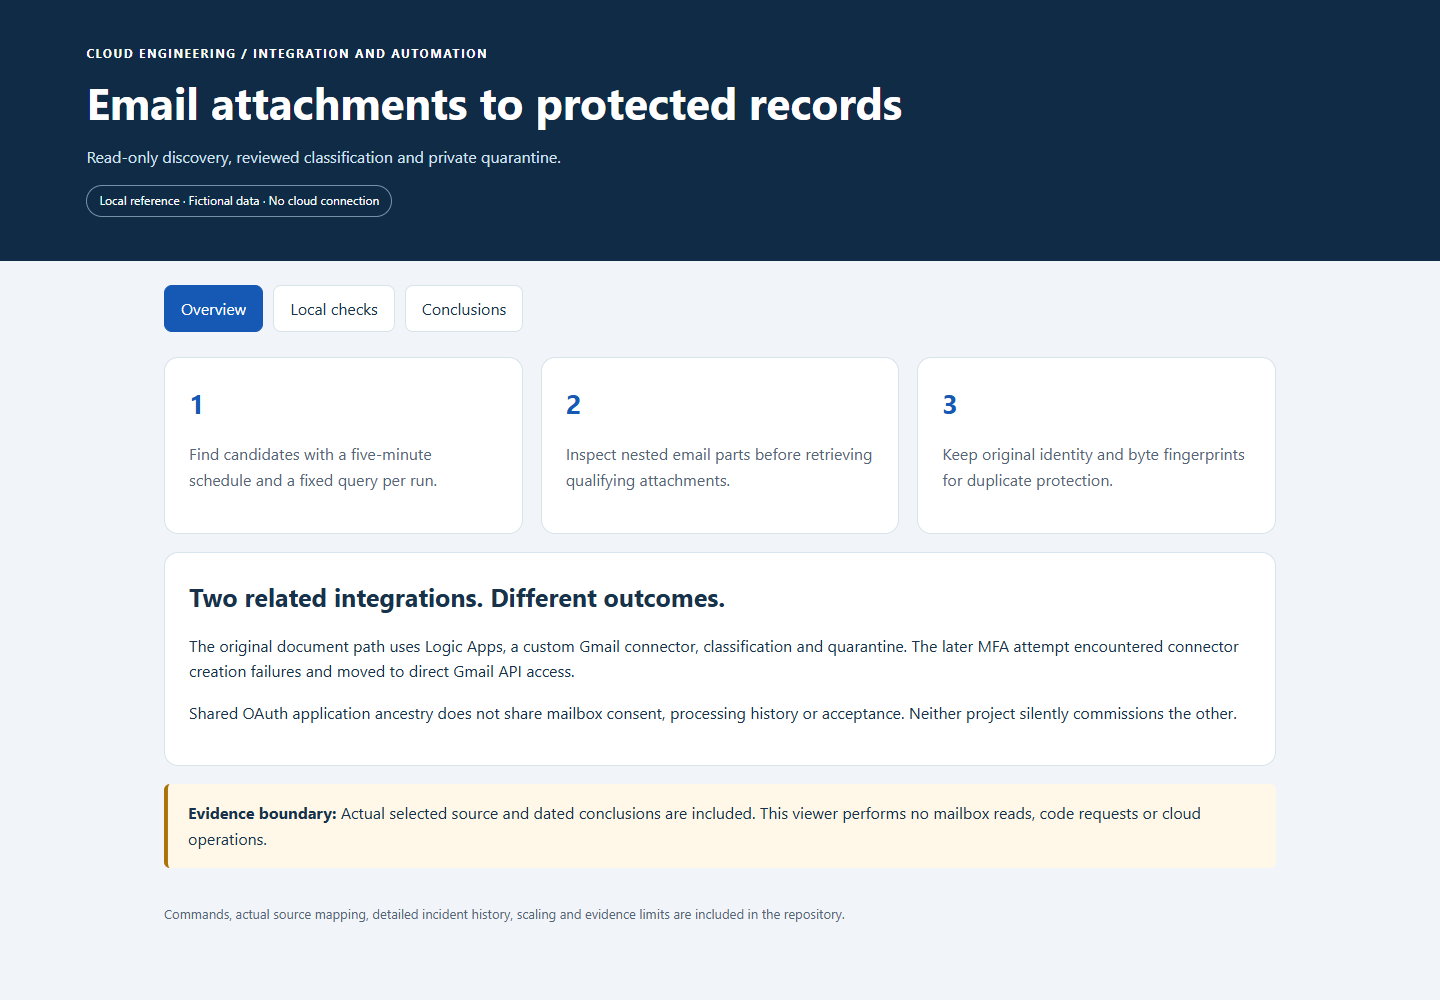
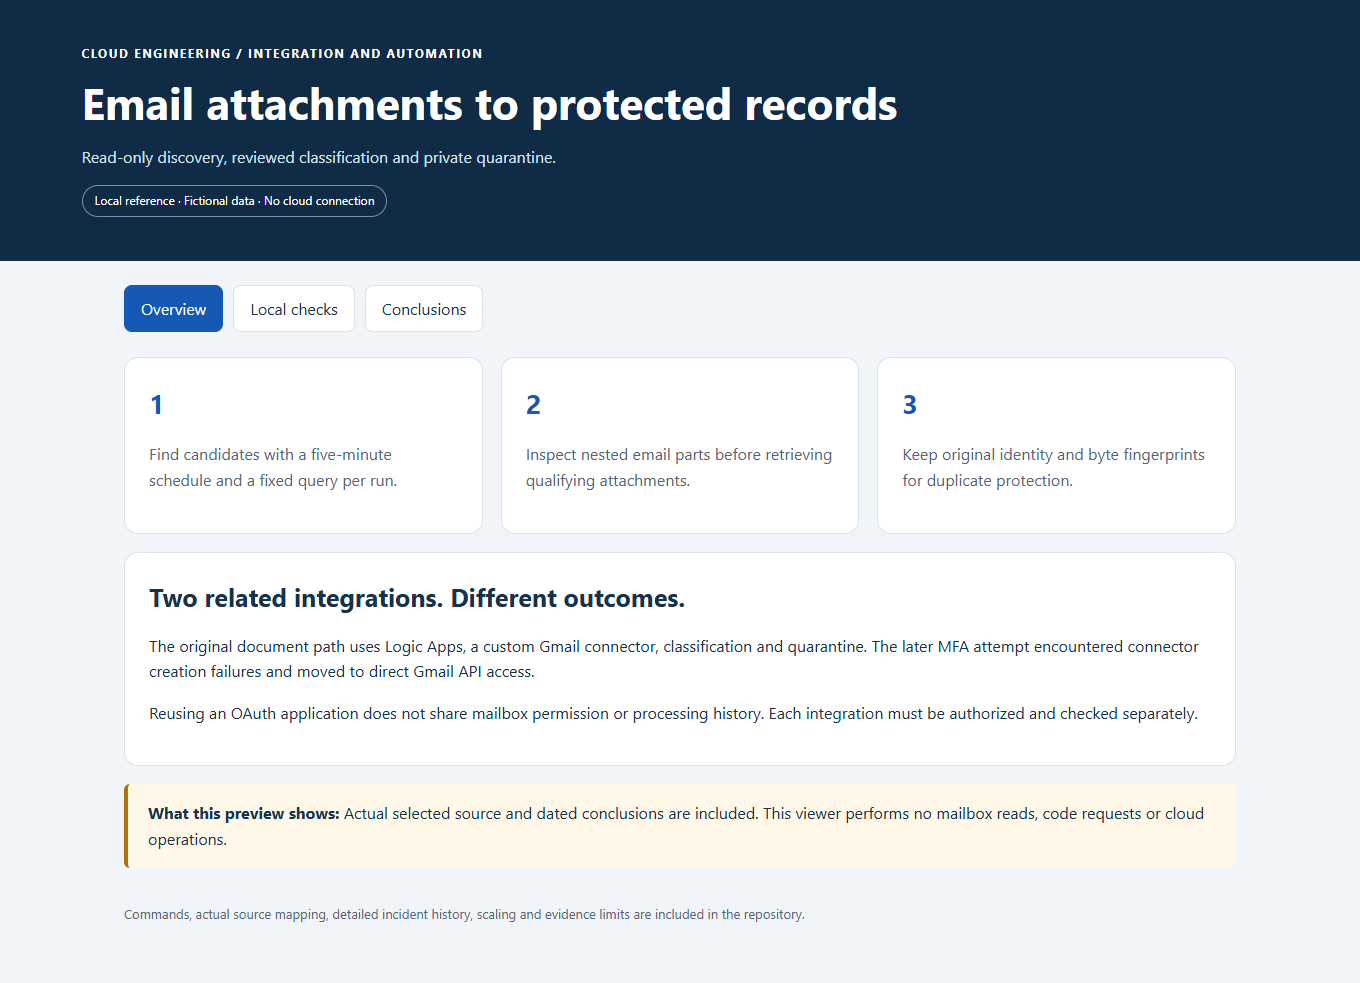
Simplify supporting guides and align preview text and screenshots

diff --git a/preview/index.html b/preview/index.html
@@ -3,8 +3,8 @@
 </style></head><body>
     <header><div class="eyebrow">Cloud engineering / Integration and automation</div><h1>Email attachments to protected records</h1><p>Read-only discovery, reviewed classification and private quarantine.</p><span class="pill">Local reference · Fictional data · No cloud connection</span></header><main>
     <nav role="tablist" aria-label="Project sections"><button id="tab-overview" role="tab" aria-controls="overview" aria-selected="true">Overview</button><button id="tab-checks" role="tab" aria-controls="checks" aria-selected="false">Local checks</button><button id="tab-conclusions" role="tab" aria-controls="conclusions" aria-selected="false">Conclusions</button></nav>
-    <section id="overview" role="tabpanel" aria-labelledby="tab-overview"><div class="grid"><article class="card"><div class="big">1</div><p>Find candidates with a five-minute schedule and a fixed query per run.</p></article><article class="card"><div class="big">2</div><p>Inspect nested email parts before retrieving qualifying attachments.</p></article><article class="card"><div class="big">3</div><p>Keep original identity and byte fingerprints for duplicate protection.</p></article></div><article class="box"><h2>Two related integrations. Different outcomes.</h2><p>The original document path uses Logic Apps, a custom Gmail connector, classification and quarantine. The later MFA attempt encountered connector creation failures and moved to direct Gmail API access.</p><p>Shared OAuth application ancestry does not share mailbox consent, processing history or acceptance. Neither project silently commissions the other.</p></article><div class="note"><strong>Evidence boundary:</strong> Actual selected source and dated conclusions are included. This viewer performs no mailbox reads, code requests or cloud operations.</div></section>
+    <section id="overview" role="tabpanel" aria-labelledby="tab-overview"><div class="grid"><article class="card"><div class="big">1</div><p>Find candidates with a five-minute schedule and a fixed query per run.</p></article><article class="card"><div class="big">2</div><p>Inspect nested email parts before retrieving qualifying attachments.</p></article><article class="card"><div class="big">3</div><p>Keep original identity and byte fingerprints for duplicate protection.</p></article></div><article class="box"><h2>Two related integrations. Different outcomes.</h2><p>The original document path uses Logic Apps, a custom Gmail connector, classification and quarantine. The later MFA attempt encountered connector creation failures and moved to direct Gmail API access.</p><p>Reusing an OAuth application does not share mailbox permission or processing history. Each integration must be authorized and checked separately.</p></article><div class="note"><strong>What this preview shows:</strong> Actual selected source and dated conclusions are included. This viewer performs no mailbox reads, code requests or cloud operations.</div></section>
     <section id="checks" role="tabpanel" aria-labelledby="tab-checks" hidden><div class="box"><h2>Actual rules. Fictional inputs.</h2><p id="scope"></p><div class="table-wrap"><table><thead><tr><th>Scenario</th><th>Decision</th><th>Observed rule output</th></tr></thead><tbody id="results"></tbody></table></div></div><div class="note">A passing local rule does not prove a live OAuth grant, database claim, malware result or completed provider sign-in.</div></section>
-    <section id="conclusions" role="tabpanel" aria-labelledby="tab-conclusions" hidden><div class="box"><h2>What failed, what changed and what remains separate</h2><div class="step"><div class="number">1</div><div><h3>Attachment identity</h3><p>Keep the raw Gmail ID intact; use a separate fixed-size hash for storage.</p></div></div><div class="step"><div class="number">2</div><div><h3>Connector failure</h3><p>A valid public contract did not explain or repair Azure creation HTTP 500.</p></div></div><div class="step"><div class="number">3</div><div><h3>MFA conclusion</h3><p>Direct Gmail retrieval removed the MFA connector dependency, while document handover stayed separate.</p></div></div><div class="step"><div class="number">4</div><div><h3>Time and competing sign-ins</h3><p>Correct timestamp precision; reject ambiguous messages rather than guessing.</p></div></div></div><div class="note"><strong>Unresolved connector cause:</strong> Azure creation failed before consent. Direct Gmail was a different path for MFA, not proof of a connector repair.</div></section>
+    <section id="conclusions" role="tabpanel" aria-labelledby="tab-conclusions" hidden><div class="box"><h2>What failed, what changed and what remains separate</h2><div class="step"><div class="number">1</div><div><h3>Attachment identity</h3><p>Keep the raw Gmail ID intact; use a separate fixed-size hash for storage.</p></div></div><div class="step"><div class="number">2</div><div><h3>Connector failure</h3><p>A valid connector definition did not resolve the HTTP 500 error during Azure resource creation.</p></div></div><div class="step"><div class="number">3</div><div><h3>MFA conclusion</h3><p>Direct Gmail retrieval removed the MFA connector dependency, while document handover stayed separate.</p></div></div><div class="step"><div class="number">4</div><div><h3>Time and competing sign-ins</h3><p>Correct timestamp precision; reject ambiguous messages rather than guessing.</p></div></div></div><div class="note"><strong>Unresolved connector cause:</strong> Azure creation failed before consent. Direct Gmail was a different path for MFA, not proof of a connector repair.</div></section>
     <footer>Commands, actual source mapping, detailed incident history, scaling and evidence limits are included in the repository.</footer></main>
     <script>const tabs=[...document.querySelectorAll('[role=tab]')];function select(tab){for(const t of tabs){t.setAttribute('aria-selected',String(t===tab));document.getElementById(t.getAttribute('aria-controls')).hidden=t!==tab}}for(const tab of tabs){tab.addEventListener('click',()=>select(tab));tab.addEventListener('keydown',e=>{if(['ArrowLeft','ArrowRight'].includes(e.key)){e.preventDefault();const next=tabs[(tabs.indexOf(tab)+(e.key==='ArrowRight'?1:-1)+tabs.length)%tabs.length];select(next);next.focus()}})}fetch('/data.json').then(r=>{if(!r.ok)throw Error('Reference data could not be loaded');return r.json()}).then(data=>{document.getElementById('scope').textContent=data.scope;for(const values of data.results){const tr=document.createElement('tr');for(const value of values){const td=document.createElement('td');td.textContent=value;tr.append(td)}document.getElementById('results').append(tr)}}).catch(e=>{const p=document.createElement('p');p.setAttribute('role','alert');p.textContent=e.message;document.querySelector('main').prepend(p)});</script></body></html>

diff --git a/docs/ISSUES-AND-CONCLUSIONS.md b/docs/ISSUES-AND-CONCLUSIONS.md
@@ -5,11 +5,11 @@ These are recorded implementation lessons, not a fresh production investigation.
 | Stage | Evidence | Conclusion |
 | --- | --- | --- |
 | Original document ingestion | Long Gmail attachment IDs exceeded a legacy 200-character assumption | Preserve the complete opaque ID; use a separate domain-separated persistence hash |
-| Historical run inspection | Some successful Response actions did not expose the expected retained output surface | Use the available system records and a controlled read of the needed source metadata; do not invent a missing output link |
+| Historical run inspection | Some successful Response actions had no retrievable saved output | Use the available system records and a controlled read of the needed source metadata; do not invent a missing output link |
 | Replacement polling review | A rolling `after:` query could move between pages | Capture one query per enumeration; retain full-pagination failure behavior |
-| Replacement document connector | Azure connector creation returned InternalServerError before OAuth | Replacement commissioning remained blocked; no mailbox migration or handover was proved |
+| Replacement document connector | Azure connector creation returned InternalServerError before OAuth | The replacement could not be put into service; mailbox migration and a complete handover were not verified |
 | Later provider MFA connector attempt, October 21 | Public OpenAPI validation passed, but connector creation still returned repeated HTTP 500 and timed out | Validation was necessary but not sufficient; the service's underlying root cause remained unknown |
-| Support attempt | HTTP 202 was followed by Failed / InvalidSupportPlan and no case readback | An accepted asynchronous submission was not an opened support ticket |
+| Support attempt | The submission was initially accepted, then failed with InvalidSupportPlan; no opened case was confirmed | An accepted asynchronous submission was not an opened support ticket |
 | MFA implementation conclusion | Approved direct Gmail API access avoided connector creation; authorization stayed protected in Key Vault | Direct retrieval became the MFA path; it did not fix the document connector |
 | OAuth lifecycle | Testing status and missing branding initially prevented a durable production-mode setup | Complete required branding, select the intended publishing status and renew consent; do not confuse this with the pre-OAuth HTTP 500 |
 | Recovery timing, October 22–23 | A real arrival could be rounded to the same second as millisecond Send time and be rejected as too old | Share one precise freshness comparison before verification and final selection; keep older/ambiguous messages rejected |
@@ -29,4 +29,4 @@ Confirm the exact resource, failure stage, supported contract and actual Azure s
 
 ## Before recovering a processing gap
 
-Establish the last verified complete boundary, stop competing producers and reconcile in-flight work. Plan a bounded fixed-window discovery and preserve the raw provider IDs and destination ledger. Do not restart the shelved historical backfill automatically. Preserving a receipt matters more than replaying an operation to obtain a cleaner test result.
+Find the last time range confirmed fully processed, stop overlapping ingestion jobs and check unfinished work. Plan a recovery scan for a fixed time range, keeping the original provider IDs and destination processing records. Do not restart the shelved historical backfill automatically. Keep the original operation record. Do not repeat a business operation just to obtain a cleaner test result.

diff --git a/docs/IMPLEMENTATION.md b/docs/IMPLEMENTATION.md
@@ -16,18 +16,18 @@ The authorization-document profile is PDF-only. The generic preparation code can
 
 Gmail attachment data uses base64url. The workflow normalizes the URL-safe alphabet and padding before submitting ordinary base64 to the inbound API. The API independently checks canonical encoding, the 20 MiB decoded bound, filename/MIME/signature agreement, sender address and received timestamp. A valid file header is not a malware verdict or a complete PDF/image parse.
 
-## Identity and provenance
+## Access and source tracking
 
 Gmail OAuth is a mailbox authorization. The workflow's managed identity is a different identity used for API calls. The original full route requires an ingestion-writer application role. Creating a workflow identity does not grant that role; the public runnable extraction deliberately omits app registration, role assignment, connector creation, database and scanner provisioning.
 
 Preserve the raw provider attachment ID, up to the contract's 8,192-character bound, for retrieval and duplicate identity. A domain-separated SHA-256 converts it to a fixed-size persistence reference. The content SHA-256 describes the received bytes. These values serve different purposes. Do not derive replay identity from the already-hashed attachment reference.
 
-The full route distinguishes an exact replay from different bytes under an existing identity. SQL and Blob Storage are separate systems: a committed receipt, pending scan and partial upload need reconciliation rather than blind re-submission.
+The full route distinguishes an exact replay from different bytes under an existing identity. SQL and Blob Storage are separate systems: a saved upload record, pending scan or partial upload must be checked before deciding what to retry.
 
 ## Trust and history
 
 New bytes go to private Gmail quarantine. Defender produces the malware result; Event Grid and a queue carry it; the trusted processor checks the expected object/version and state before release. No OCR result, sender label, successful poll or manual operator assumption makes a file clean.
 
-Earlier records describe plans to activate an earlier environment. The replacement remained deferred because connector creation failed and the evidence was insufficient to confirm a complete handover. The original implementation code is retained here. This project does not check or change the current live connection.
+Historical records describe an earlier activation plan. The replacement remained deferred because connector creation failed and the evidence was insufficient to confirm a complete handover. The original implementation code is retained here. This project does not check or change the current live connection.
 
 References: [Gmail attachment body format](https://developers.google.com/workspace/gmail/api/reference/rest/v1/users.messages.attachments), [message listing](https://developers.google.com/workspace/gmail/api/reference/rest/v1/users.messages/list), [Gmail filtering](https://developers.google.com/workspace/gmail/api/guides/filtering), [Microsoft Gmail connector restrictions](https://learn.microsoft.com/en-us/connectors/gmail/).

diff --git a/docs/OPERATIONS-AND-SCALING.md b/docs/OPERATIONS-AND-SCALING.md
@@ -18,7 +18,7 @@ Keep the historical enumerator and metadata workflows disabled unless a specific
 
 Measure qualifying documents, all polled messages, pages, actions per run, attachment sizes, duplicate/conflict rates, time in quarantine and end-to-end completion. Consumption Logic Apps charge for executed work; extra polling, per-message actions and repeated failures can increase cost. Also account for storage, versions, scanning and logging. No current price estimate is implied.
 
-The workflow's sequential loops simplify ordering and shared-variable use but limit throughput. Increasing concurrency requires safe loop state, database uniqueness and object-version checks. Larger discovery windows can hit page/time limits. A persisted cursor or bounded recovery windows may be warranted, but neither is silently added to this copied design.
+The workflow's sequential loops simplify ordering and shared-variable use but limit throughput. Processing more files at once requires separate state for each loop, database duplicate protection and checks of the exact stored file. Larger discovery windows can hit page/time limits. A saved progress marker or a recovery job covering a fixed time range may help after outages. Neither is included in this reference.
 
 The helper buffers attachments and caps decoded bytes at 20 MiB. Larger-file support needs memory, request-size, timeout, direct upload/finalization and malware-correlation design, not just a raised constant. Split resource boundaries only when access, scale or ownership justifies them.
 

diff --git a/docs/VALIDATION.md b/docs/VALIDATION.md
@@ -19,3 +19,14 @@ The document tests use three original test files against the extracted contract,
 Historical records preserve earlier outcomes and later blocked/deferred work separately. No real message or attachment, OAuth bundle, verification code, callback URL or employee record is included. No cloud start, consent, mailbox query, backfill, SQL migration, message send or deployment is performed for publication.
 
 The selected Node tests are not a complete application build or TypeScript type check. Fake responses do not prove live OAuth/DKIM/DNS, SQL transaction races or provider sign-in. The GitHub workflow is manual-only and is not dispatched.
+
+## Wording and preview review - November 6, 2026
+
+The supporting guides and preview labels received another plain-language review.
+Screenshots were refreshed from the local fictional viewer. Desktop tabs loaded
+without browser errors, and the 390-pixel mobile view had no horizontal page
+overflow. External browser requests were blocked. HTML structure and embedded
+scripts remained unchanged; this pass changed text and screenshots only.
+
+These browser checks did not repeat cloud acceptance or the earlier code tests.
+No Azure service, Gmail account, provider session or hosted Actions run was used.
